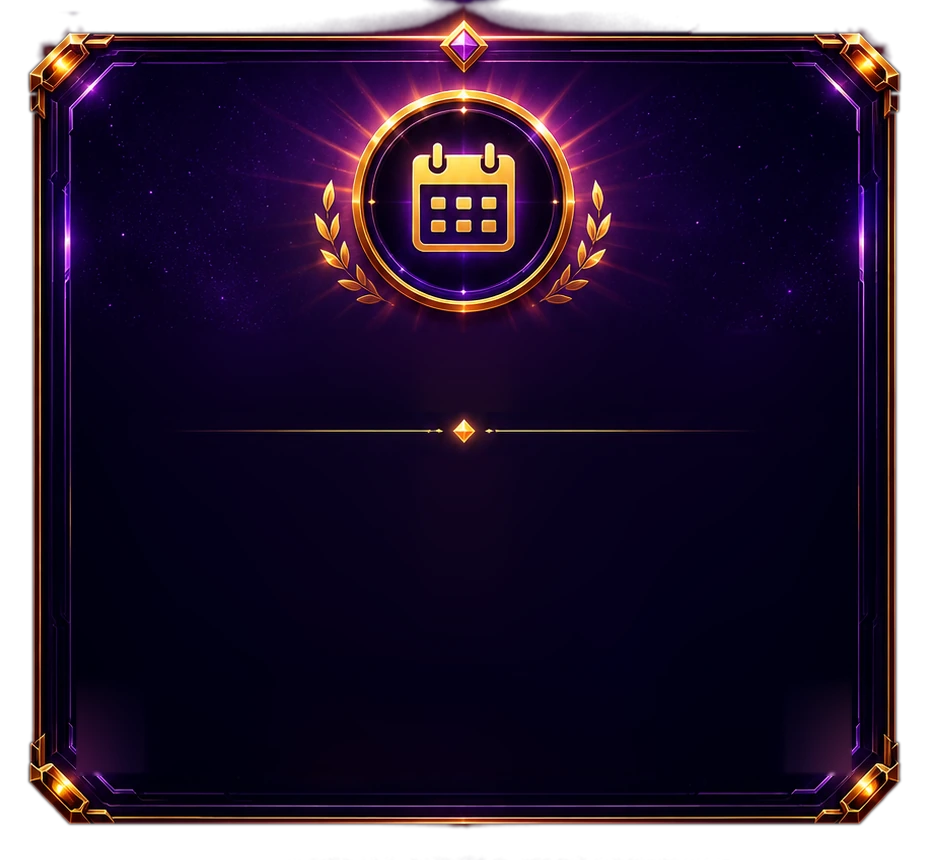
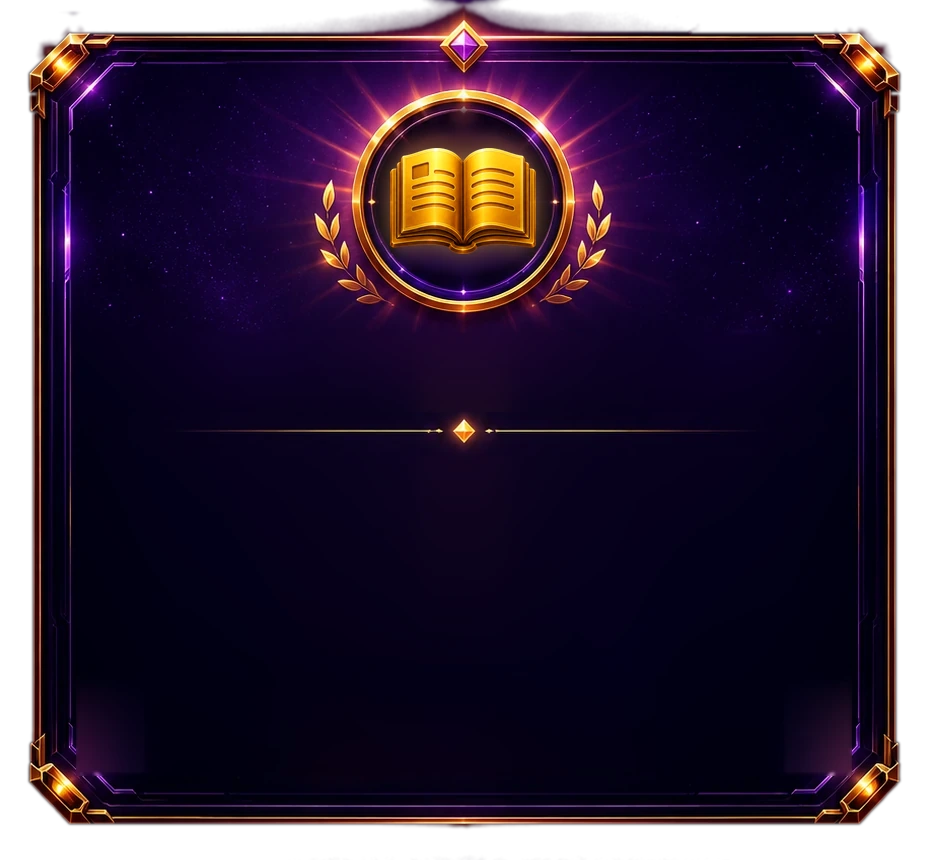
v2.142.0: het woordendeel heet Woorden en draagt een boek
Twee dingen die allebei nog naar de dagronde als geheel wezen terwijl je al in
een deel stond. De kop van het woordendeel zei "Dagronde", en in de ring stond
de kalender, het teken van de dag zelf. Het topografiedeel deed dat allang goed:
daar staat "Topografie" boven en een wereldbol in de ring. Nu is het woordendeel
gelijkgetrokken.

De kop hangt aan het DEEL, niet aan het scherm: op de keuzepagina staat er nog
steeds "Dagronde", want daar kies je tussen de drie. En de startknop zei "Start
de dagronde" op een pagina die Woorden heet; dat is "Start woorden" geworden,
naar het voorbeeld van "Start topografie".

Het embleem is dezelfde ingreep als destijds bij de bol: de schijf opnieuw
opgebouwd uit zijn eigen omgeving en het nieuwe teken erop. Alles opgemeten op
de plaat, niet geschat: hart (463, 197), gouden ring op straal 104,5, donkere
schijf tot 100. De maskering vult alleen met pixels van BINNEN die schijf, want
neem je de ring mee, dan loopt er goud naar binnen en krijgt het vlak een rand.

Het boek staat 146 breed en vier punten onder het hart. Naast elkaar gezet op
schermmaat (138, 146 en 152) staat deze het rustigst in de ring: een boek loopt
naar de rug toe smal toe, dus precies op het hart leest hij als te hoog.

De plaat is overschreven, dus het adres krijgt ?v=2: /ui/ komt bij de
servicewerker uit de cache en zou anders de kalender blijven tonen.

Changed region(s): [[0.4058, 0.1209, 0.5931, 0.3023]]

diff --git a/frontend/src/components/DagKaart.tsx b/frontend/src/components/DagKaart.tsx
@@ -22,12 +22,17 @@ import { useEffect, useRef, useState, type ReactNode } from "react";
 import { KADER_LIJN_PAARS, NeonKader } from "./ProfileHero";
 import { colors, font } from "../theme/tokens";
 
-/** Dezelfde lijst, twee emblemen. De kalender is uit de ring gehaald (de schijf
- *  is opnieuw opgebouwd uit de kleur van zijn eigen rand) en er staat een
- *  wereldbol in de plaats voor het topografiedeel. Ring, lauwerkrans en stralen
- *  zijn in beide gelijk, want het is hetzelfde onderdeel van dezelfde dag. */
+/** Dezelfde lijst, twee emblemen. De schijf in de ring is bij allebei opnieuw
+ *  opgebouwd uit zijn eigen omgeving, en daar staat het teken van dat deel op:
+ *  een boek voor de woorden en een wereldbol voor de topografie. De kalender
+ *  hoorde bij de dagronde als geheel en staat daarom nergens meer in een deel.
+ *  Ring, lauwerkrans en stralen zijn in beide gelijk, want het is hetzelfde
+ *  onderdeel van dezelfde dag.
+ *
+ *  De `?v=` hoort erbij: /ui/ komt bij de servicewerker uit de cache, dus een
+ *  overschreven plaat op hetzelfde adres blijft anders de oude tonen. */
 const ART = {
-  woorden: "/ui/dag-sectie.webp",
+  woorden: "/ui/dag-sectie.webp?v=2",
   topo: "/ui/dag-sectie-topo.webp",
 } as const;
 /** Verhouding van de plaat (929x860). */

diff --git a/frontend/src/screens/Daily.tsx b/frontend/src/screens/Daily.tsx
@@ -291,7 +291,12 @@ export function Daily({ game, onBack, onProfile }: { game: GameApi; onBack: () =
       <button onClick={() => (part && phase === "intro" ? setPart(null) : onBack())} aria-label={t("back")} style={{ background: "transparent", border: "none", cursor: "pointer", color: colors.faint, display: "flex", padding: 2 }}>
         <ArrowLeft size={20} />
       </button>
-      <span style={{ fontFamily: font.display, fontWeight: 700, fontSize: 17, color: colors.ink }}>{t("dailyTitle")}
+      {/* De naam van het DEEL waar je in staat, niet die van de dagronde. Op de
+          keuzepagina hoort er "Dagronde" te staan, want daar kies je tussen de
+          drie; ben je eenmaal in het woordendeel, dan heet die pagina "Woorden",
+          net zoals het topografiedeel "Topografie" heet. */}
+      <span style={{ fontFamily: font.display, fontWeight: 700, fontSize: 17, color: colors.ink }}>
+        {part === "words" ? t("partWords") : t("dailyTitle")}
       </span>
     </div>
   );

diff --git a/frontend/src/i18n/i18n.tsx b/frontend/src/i18n/i18n.tsx
@@ -710,7 +710,7 @@ const nl: Dict = {
   dagPunt5: "Je hebt één poging per dag",
   dagVerlopen: "Je opende deze ronde om {t} en de tijd is verlopen. Je kunt nog spelen, maar deze poging telt niet meer voor de ranglijst.",
   dagVerlopenKnop: "Speel zonder ranglijst",
-  dailyStart: "Start de dagronde",
+  dailyStart: "Start woorden",
   dailyViewResult: "Bekijk je resultaat",
   dailyPlayed: "Je hebt vandaag al gespeeld.",
   dailyDone: "Ik ben klaar",
@@ -1972,7 +1972,7 @@ const en: Dict = {
   dagPunt5: "You get one attempt per day",
   dagVerlopen: "You opened this round at {t} and the time is up. You can still play, but this attempt no longer counts for the board.",
   dagVerlopenKnop: "Play off the board",
-  dailyStart: "Start the daily round",
+  dailyStart: "Start words",
   dailyViewResult: "View your result",
   dailyPlayed: "You already played today.",
   dailyDone: "I am done",

diff --git a/frontend/src/version.ts b/frontend/src/version.ts
@@ -1,2 +1,2 @@
 // Bump per user-facing release. Shown in Settings > About.
-export const APP_VERSION = "2.141.1";
+export const APP_VERSION = "2.142.0";
